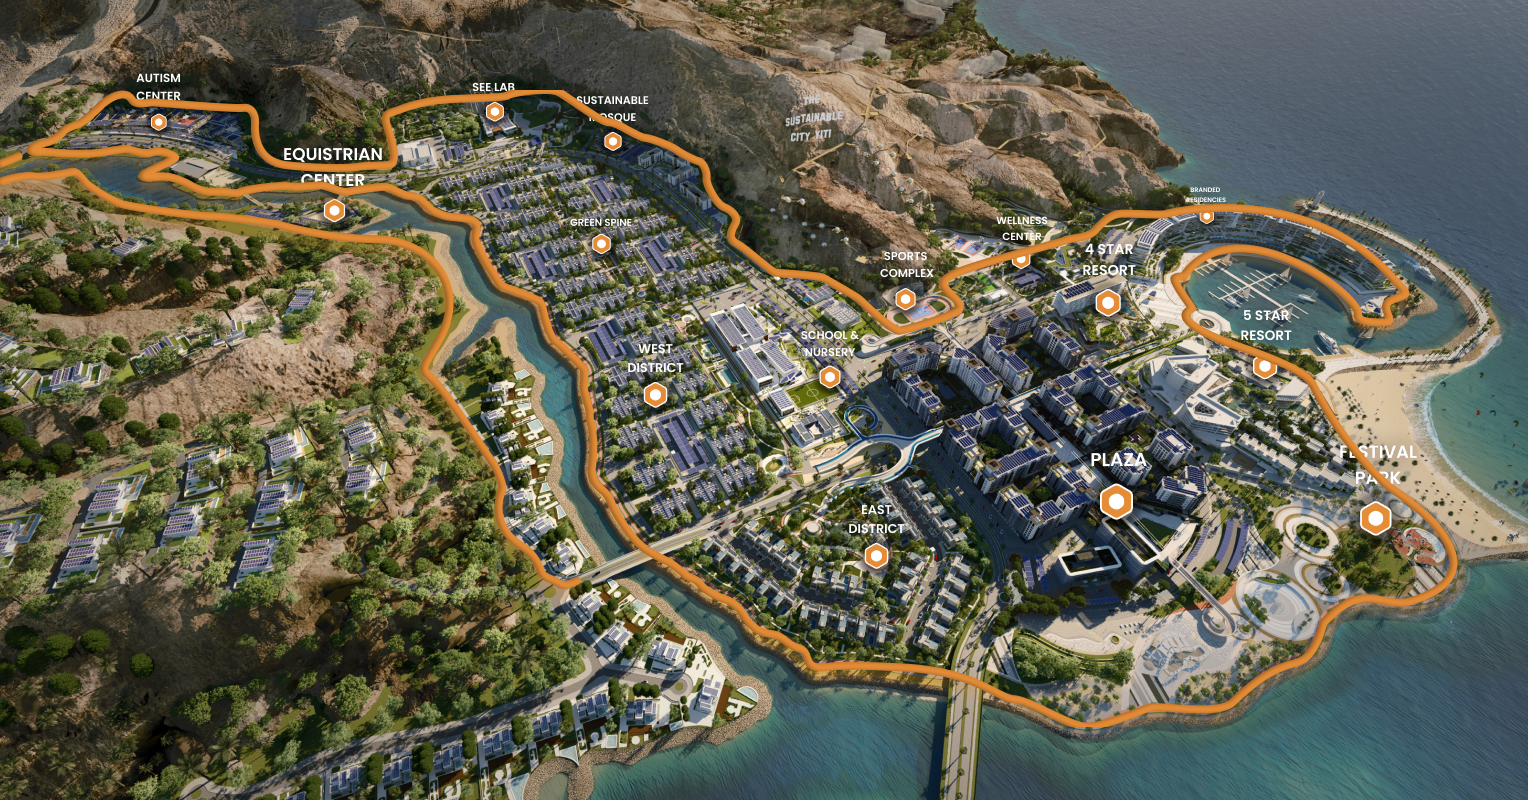
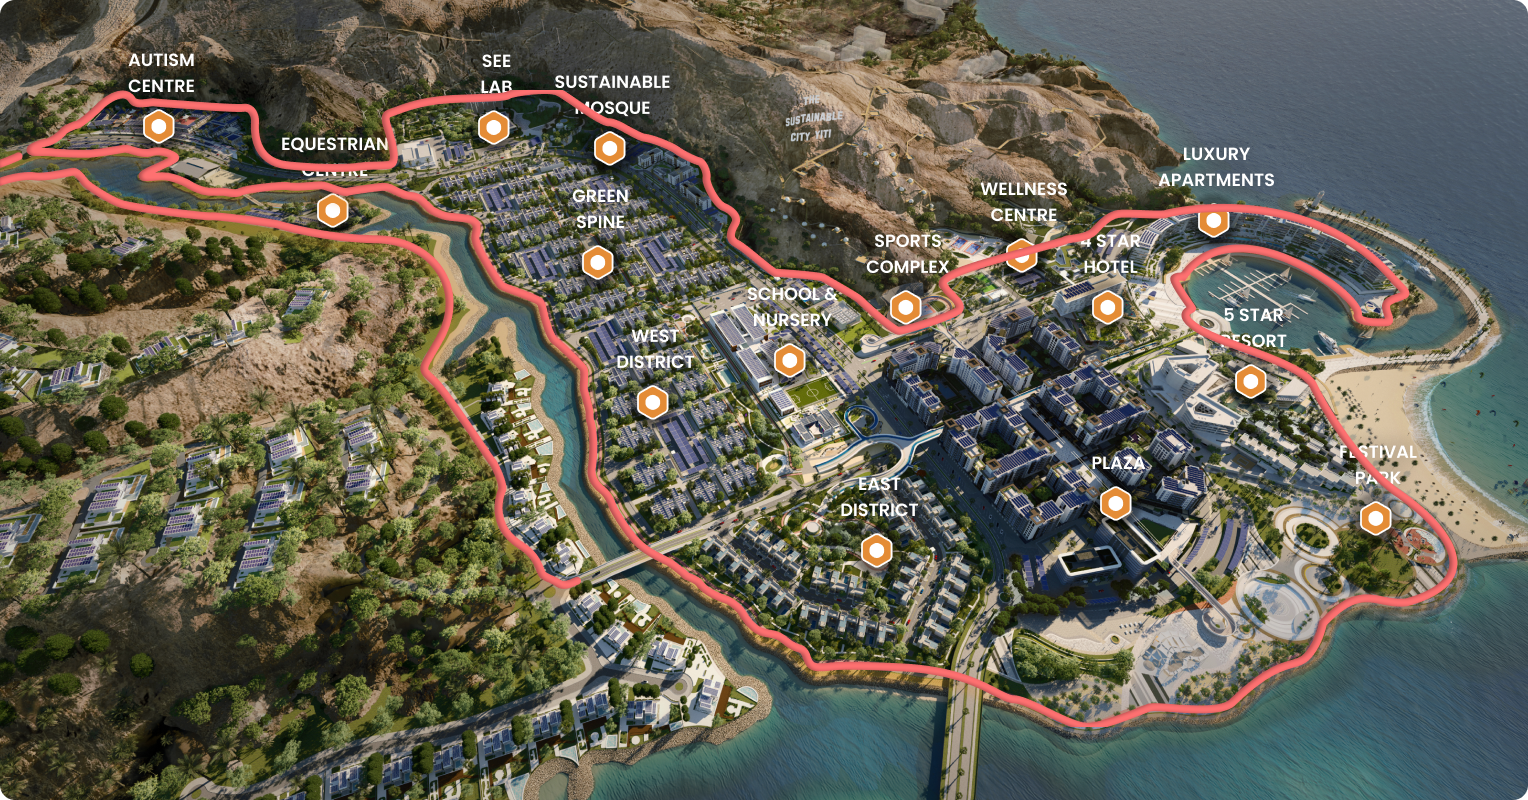
Track images updated

diff --git a/utils/arabic.js b/utils/arabic.js
@@ -1031,7 +1031,7 @@ const arabic = {
       id: 17,
       name: "الخيول",
       icon: <Popequestraiantrack />,
-      slideimg: ["/Images/masterplan/tracks/equistriantrack.png"],
+      slideimg: ["/Images/masterplan/tracks/equestriantrack.png"],
       description:
         "مسار للفروسية بطول 1.2 كم يمتد على طول الواجهة البحرية ويربط الإسطبلات بالحديقة العامة.",
     },
@@ -1047,7 +1047,7 @@ const arabic = {
       id: 19,
       name: "المركبات الكهربائية",
       icon: <Popebuggy />,
-      slideimg: ["/Images/masterplan/tracks/cyclingtrack.png"],
+      slideimg: ["/Images/masterplan/tracks/ebuggytrack.png"],
       description:
         "مناطق خالية من السيارات حرصاً على سلامة الأطفال وتعزيز إمكانية المشي",
     },

diff --git a/utils/english.js b/utils/english.js
@@ -1029,7 +1029,7 @@ const english = {
       id: 17,
       name: "Equestrian",
       icon: <Popequestraiantrack />,
-      slideimg: ["/Images/masterplan/tracks/equistriantrack.png"],
+      slideimg: ["/Images/masterplan/tracks/equestriantrack.png"],
       description:
         "1.2 Km long equestrian track that runs along the waterfront promenade connecting the stables with the public park.",
     },
@@ -1045,7 +1045,7 @@ const english = {
       id: 19,
       name: "E-Buggy",
       icon: <Popebuggy />,
-      slideimg: ["/Images/masterplan/tracks/cyclingtrack.png"],
+      slideimg: ["/Images/masterplan/tracks/ebuggytrack.png"],
       description:
         "Car free areas to create safe zones for kids and promote walkability.",
     },
